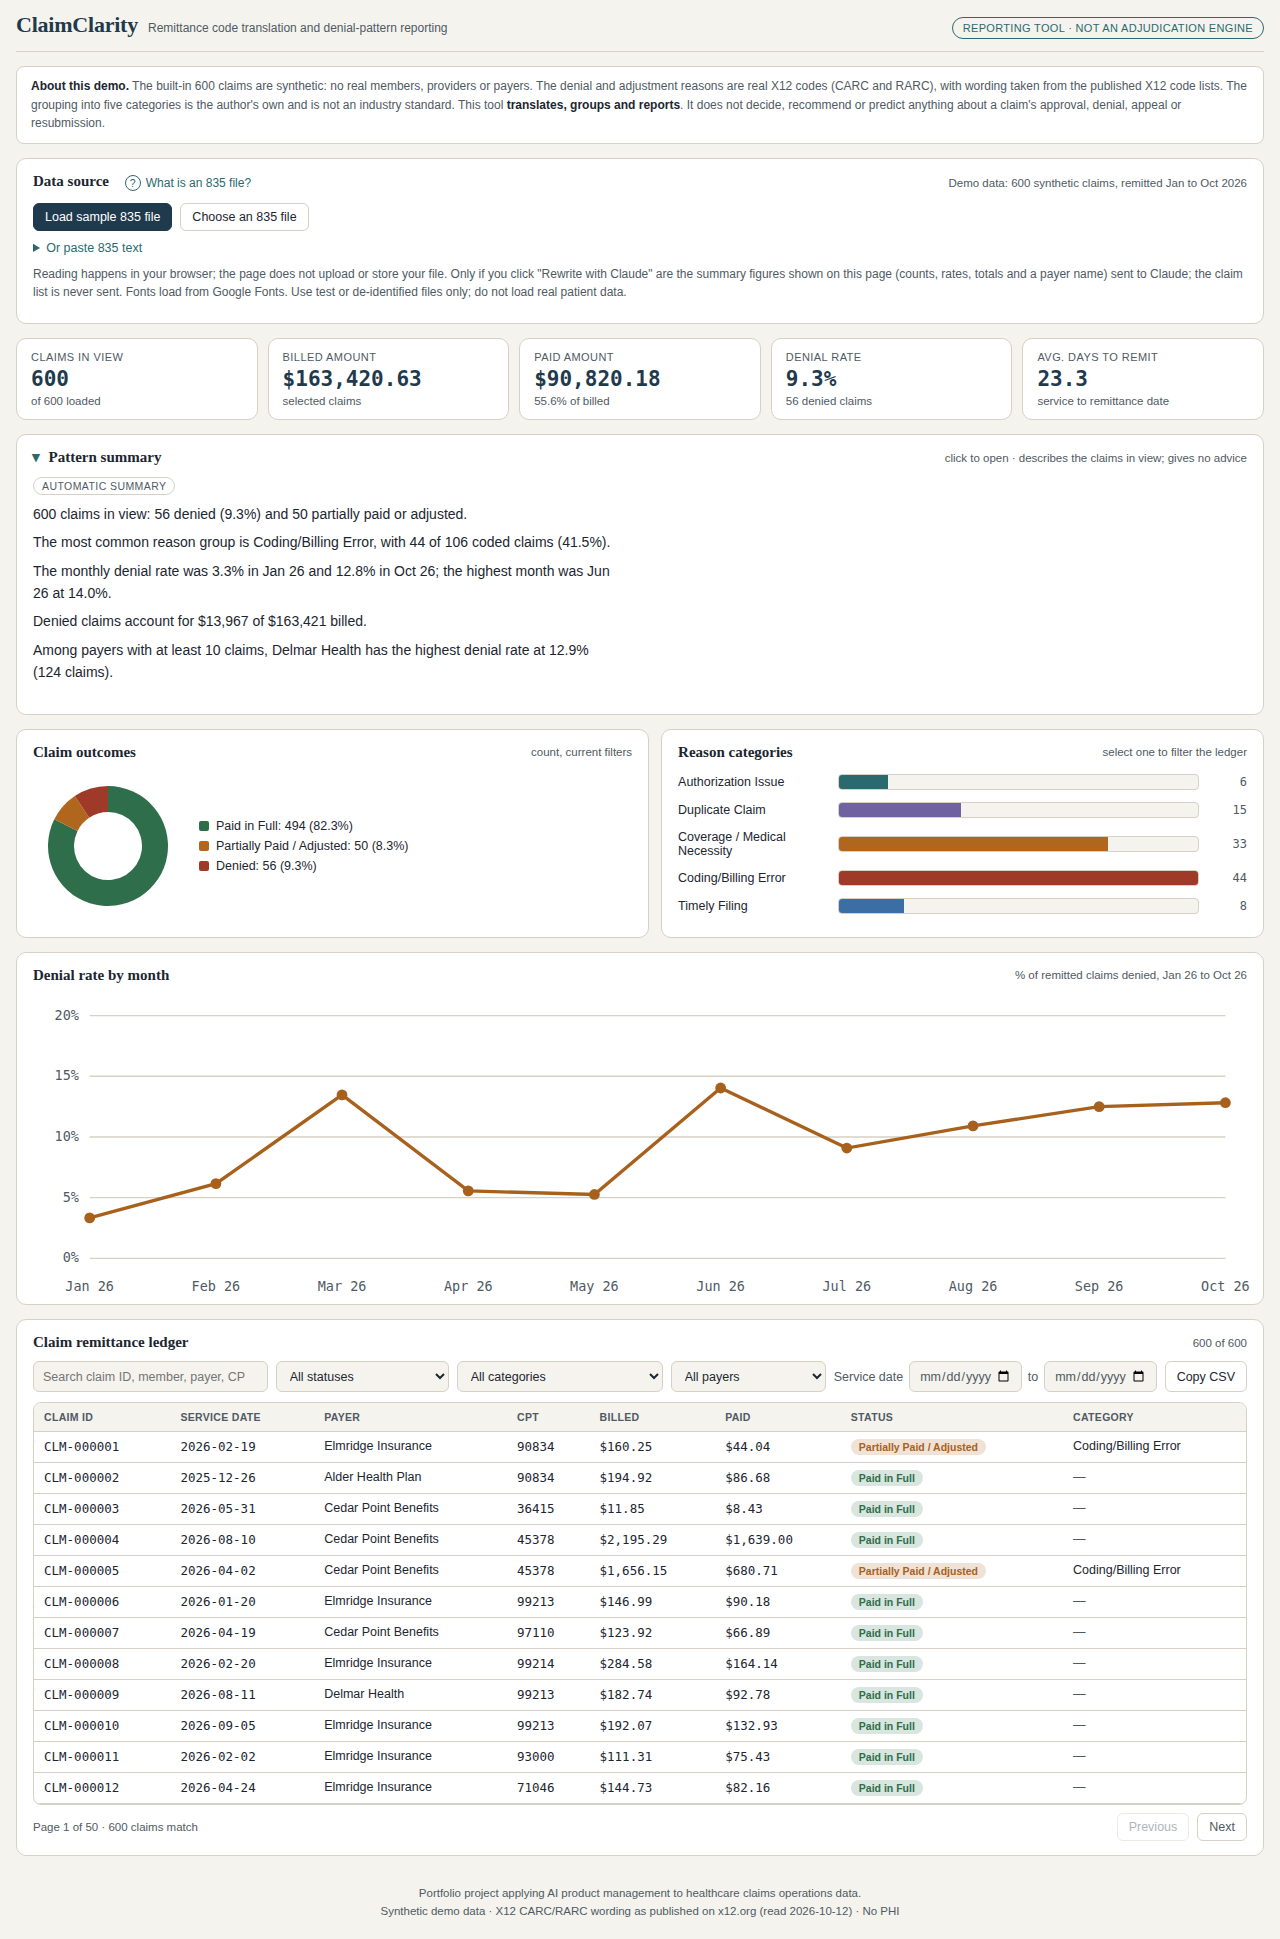
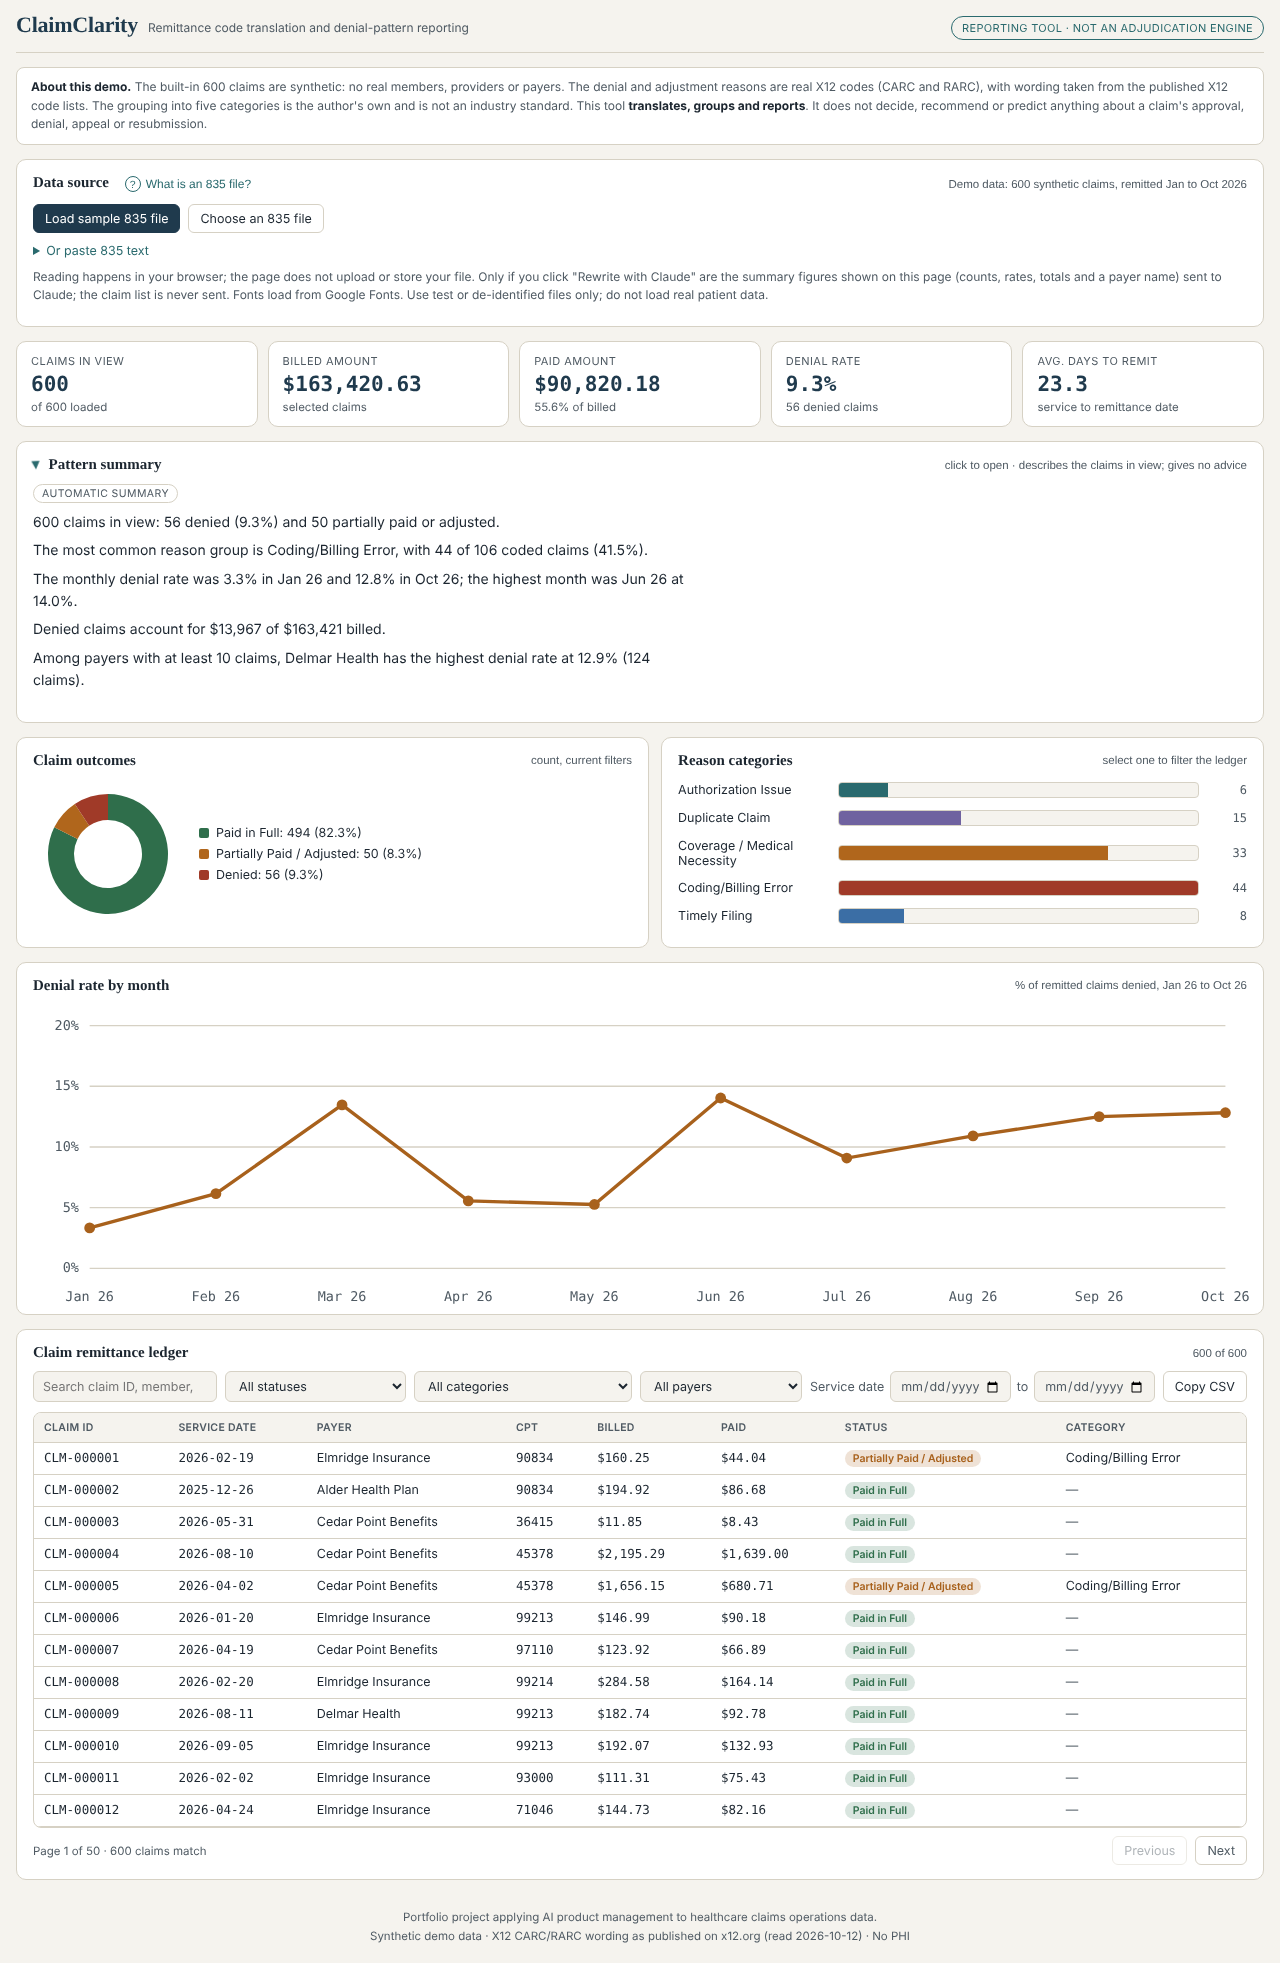
Label retired codes CARC 15 and 125
Marks both as "Retired code" in the claim panel and CSV export, with the
stop date as shown on x12.org. Updates BRD, FRD, README and CHANGELOG.

Claude-Session: https://claude.ai/code/session_01PJ1AVXRLBjWfxzT4sn9pDP

diff --git a/app/index.html b/app/index.html
@@ -143,6 +143,8 @@ tbody tr:hover{background:var(--bg);}
 .code-plain{font-size:13px;line-height:1.5;font-weight:500;}
 .code-official{font-size:12px;line-height:1.5;color:var(--ink-dim);margin-top:4px;}
 .code-official b{font-weight:600;}
+.retired-pill{display:inline-block;margin-left:6px;font-size:10.5px;font-weight:600;letter-spacing:.03em;text-transform:uppercase;color:var(--warn);border:1px solid var(--warn);border-radius:100px;padding:1px 7px;vertical-align:middle;}
+.retired-note{font-size:11.5px;line-height:1.5;color:var(--ink-dim);margin-top:6px;font-style:italic;}
 .cat-chip{display:inline-block;background:color-mix(in srgb,var(--teal) 16%,transparent);color:var(--teal);border-radius:100px;padding:3px 10px;font-size:11.5px;font-weight:600;margin-bottom:10px;}
 .out-of-scope{margin-top:14px;font-size:11.5px;color:var(--ink-dim);border-top:1px dashed var(--line);padding-top:10px;line-height:1.5;}
 footer.app{font-size:11.5px;color:var(--ink-dim);text-align:center;padding:14px 0 6px;line-height:1.6;}
@@ -280,13 +282,13 @@ const CODES = {
   carc: {
     "4":   {o:"The procedure code is inconsistent with the modifier used.", p:"The procedure code does not fit the modifier used."},
     "11":  {o:"The diagnosis is inconsistent with the procedure.", p:"The diagnosis on the claim does not fit the procedure billed."},
-    "15":  {o:"The authorization number is missing, invalid, or does not apply to the billed services or provider.", p:"The authorization number is missing, invalid, or does not match the billed service or provider."},
+    "15":  {retired:"01/05/2018", o:"The authorization number is missing, invalid, or does not apply to the billed services or provider.", p:"The authorization number is missing, invalid, or does not match the billed service or provider."},
     "16":  {o:"Claim/service lacks information or has submission/billing error(s).", p:"The claim is missing information or has a billing error."},
     "18":  {o:"Exact duplicate claim/service (Use only with Group Code OA except where state workers' compensation regulations requires CO)", p:"The payer already has this exact claim or service."},
     "29":  {o:"The time limit for filing has expired.", p:"The claim reached the payer after its filing deadline."},
     "49":  {o:"This is a non-covered service because it is a routine/preventive exam or a diagnostic/screening procedure done in conjunction with a routine/preventive exam.", p:"A routine or preventive exam, or a screening or diagnostic test done with one, is not covered."},
     "50":  {o:"These are non-covered services because this is not deemed a 'medical necessity' by the payer.", p:"The payer did not consider the service medically necessary."},
-    "125": {o:"Submission/billing error(s). At least one Remark Code must be provided", p:"A submission or billing error. The remark code gives the specifics."},
+    "125": {retired:"01/11/2013", o:"Submission/billing error(s). At least one Remark Code must be provided", p:"A submission or billing error. The remark code gives the specifics."},
     "197": {o:"Precertification/authorization/notification/pre-treatment absent.", p:"The required pre-approval was not on file."},
     "198": {o:"Precertification/notification/authorization/pre-treatment exceeded.", p:"The service went beyond what the pre-approval allowed."}
   },
@@ -436,7 +438,8 @@ function csvCell(v, isText){
 function describeCode(kind, code){
   if(!code) return {plain:'', official:''};
   const e = CODES[kind][code];
-  return e ? {plain:e.p, official:e.o} : {plain:NOT_IN_SET, official:''};
+  if(!e) return {plain:NOT_IN_SET, official:''};
+  return {plain: e.retired ? 'Retired code (stopped '+e.retired+' per x12.org). '+e.p : e.p, official:e.o};
 }
 function toCSV(list){
   const head = ['claim_id','member_id','payer','provider_specialty','place_of_service','service_date','remittance_date','cpt_code','service','billed','allowed','paid','patient_responsibility','status','category','carc','carc_plain_english','carc_x12_wording','rarc','rarc_plain_english','rarc_x12_wording'];
@@ -585,7 +588,9 @@ function renderTable(list){
 function codeBlock(kind, code){
   const e = CODES[kind][code], tag = kind.toUpperCase()+' '+code;
   if(!e) return `<div class="code-block"><span class="code-tag">${esc(tag)}</span><div class="code-plain">${NOT_IN_SET}.</div></div>`;
-  return `<div class="code-block"><span class="code-tag">${esc(tag)}</span><div class="code-plain">${esc(e.p)}</div><div class="code-official"><b>X12 wording:</b> ${esc(e.o)}</div></div>`;
+  const ret = e.retired ? `<span class="retired-pill">Retired code</span>` : '';
+  const note = e.retired ? `<div class="retired-note">As shown on x12.org, this code was stopped on ${esc(e.retired)}. Current remittances should not use it, but older or non-standard files may still contain it.</div>` : '';
+  return `<div class="code-block"><span class="code-tag">${esc(tag)}</span>${ret}<div class="code-plain">${esc(e.p)}</div><div class="code-official"><b>X12 wording:</b> ${esc(e.o)}</div>${note}</div>`;
 }
 function openDrawer(id, from){
   const c = DATA.find(x=>x.claim_id===id); if(!c) return;

diff --git a/src/template.html b/src/template.html
@@ -143,6 +143,8 @@ tbody tr:hover{background:var(--bg);}
 .code-plain{font-size:13px;line-height:1.5;font-weight:500;}
 .code-official{font-size:12px;line-height:1.5;color:var(--ink-dim);margin-top:4px;}
 .code-official b{font-weight:600;}
+.retired-pill{display:inline-block;margin-left:6px;font-size:10.5px;font-weight:600;letter-spacing:.03em;text-transform:uppercase;color:var(--warn);border:1px solid var(--warn);border-radius:100px;padding:1px 7px;vertical-align:middle;}
+.retired-note{font-size:11.5px;line-height:1.5;color:var(--ink-dim);margin-top:6px;font-style:italic;}
 .cat-chip{display:inline-block;background:color-mix(in srgb,var(--teal) 16%,transparent);color:var(--teal);border-radius:100px;padding:3px 10px;font-size:11.5px;font-weight:600;margin-bottom:10px;}
 .out-of-scope{margin-top:14px;font-size:11.5px;color:var(--ink-dim);border-top:1px dashed var(--line);padding-top:10px;line-height:1.5;}
 footer.app{font-size:11.5px;color:var(--ink-dim);text-align:center;padding:14px 0 6px;line-height:1.6;}
@@ -280,13 +282,13 @@ const CODES = {
   carc: {
     "4":   {o:"The procedure code is inconsistent with the modifier used.", p:"The procedure code does not fit the modifier used."},
     "11":  {o:"The diagnosis is inconsistent with the procedure.", p:"The diagnosis on the claim does not fit the procedure billed."},
-    "15":  {o:"The authorization number is missing, invalid, or does not apply to the billed services or provider.", p:"The authorization number is missing, invalid, or does not match the billed service or provider."},
+    "15":  {retired:"01/05/2018", o:"The authorization number is missing, invalid, or does not apply to the billed services or provider.", p:"The authorization number is missing, invalid, or does not match the billed service or provider."},
     "16":  {o:"Claim/service lacks information or has submission/billing error(s).", p:"The claim is missing information or has a billing error."},
     "18":  {o:"Exact duplicate claim/service (Use only with Group Code OA except where state workers' compensation regulations requires CO)", p:"The payer already has this exact claim or service."},
     "29":  {o:"The time limit for filing has expired.", p:"The claim reached the payer after its filing deadline."},
     "49":  {o:"This is a non-covered service because it is a routine/preventive exam or a diagnostic/screening procedure done in conjunction with a routine/preventive exam.", p:"A routine or preventive exam, or a screening or diagnostic test done with one, is not covered."},
     "50":  {o:"These are non-covered services because this is not deemed a 'medical necessity' by the payer.", p:"The payer did not consider the service medically necessary."},
-    "125": {o:"Submission/billing error(s). At least one Remark Code must be provided", p:"A submission or billing error. The remark code gives the specifics."},
+    "125": {retired:"01/11/2013", o:"Submission/billing error(s). At least one Remark Code must be provided", p:"A submission or billing error. The remark code gives the specifics."},
     "197": {o:"Precertification/authorization/notification/pre-treatment absent.", p:"The required pre-approval was not on file."},
     "198": {o:"Precertification/notification/authorization/pre-treatment exceeded.", p:"The service went beyond what the pre-approval allowed."}
   },
@@ -436,7 +438,8 @@ function csvCell(v, isText){
 function describeCode(kind, code){
   if(!code) return {plain:'', official:''};
   const e = CODES[kind][code];
-  return e ? {plain:e.p, official:e.o} : {plain:NOT_IN_SET, official:''};
+  if(!e) return {plain:NOT_IN_SET, official:''};
+  return {plain: e.retired ? 'Retired code (stopped '+e.retired+' per x12.org). '+e.p : e.p, official:e.o};
 }
 function toCSV(list){
   const head = ['claim_id','member_id','payer','provider_specialty','place_of_service','service_date','remittance_date','cpt_code','service','billed','allowed','paid','patient_responsibility','status','category','carc','carc_plain_english','carc_x12_wording','rarc','rarc_plain_english','rarc_x12_wording'];
@@ -585,7 +588,9 @@ function renderTable(list){
 function codeBlock(kind, code){
   const e = CODES[kind][code], tag = kind.toUpperCase()+' '+code;
   if(!e) return `<div class="code-block"><span class="code-tag">${esc(tag)}</span><div class="code-plain">${NOT_IN_SET}.</div></div>`;
-  return `<div class="code-block"><span class="code-tag">${esc(tag)}</span><div class="code-plain">${esc(e.p)}</div><div class="code-official"><b>X12 wording:</b> ${esc(e.o)}</div></div>`;
+  const ret = e.retired ? `<span class="retired-pill">Retired code</span>` : '';
+  const note = e.retired ? `<div class="retired-note">As shown on x12.org, this code was stopped on ${esc(e.retired)}. Current remittances should not use it, but older or non-standard files may still contain it.</div>` : '';
+  return `<div class="code-block"><span class="code-tag">${esc(tag)}</span>${ret}<div class="code-plain">${esc(e.p)}</div><div class="code-official"><b>X12 wording:</b> ${esc(e.o)}</div>${note}</div>`;
 }
 function openDrawer(id, from){
   const c = DATA.find(x=>x.claim_id===id); if(!c) return;

diff --git a/src/pure.js b/src/pure.js
@@ -3,13 +3,13 @@ const CODES = {
   carc: {
     "4":   {o:"The procedure code is inconsistent with the modifier used.", p:"The procedure code does not fit the modifier used."},
     "11":  {o:"The diagnosis is inconsistent with the procedure.", p:"The diagnosis on the claim does not fit the procedure billed."},
-    "15":  {o:"The authorization number is missing, invalid, or does not apply to the billed services or provider.", p:"The authorization number is missing, invalid, or does not match the billed service or provider."},
+    "15":  {retired:"01/05/2018", o:"The authorization number is missing, invalid, or does not apply to the billed services or provider.", p:"The authorization number is missing, invalid, or does not match the billed service or provider."},
     "16":  {o:"Claim/service lacks information or has submission/billing error(s).", p:"The claim is missing information or has a billing error."},
     "18":  {o:"Exact duplicate claim/service (Use only with Group Code OA except where state workers' compensation regulations requires CO)", p:"The payer already has this exact claim or service."},
     "29":  {o:"The time limit for filing has expired.", p:"The claim reached the payer after its filing deadline."},
     "49":  {o:"This is a non-covered service because it is a routine/preventive exam or a diagnostic/screening procedure done in conjunction with a routine/preventive exam.", p:"A routine or preventive exam, or a screening or diagnostic test done with one, is not covered."},
     "50":  {o:"These are non-covered services because this is not deemed a 'medical necessity' by the payer.", p:"The payer did not consider the service medically necessary."},
-    "125": {o:"Submission/billing error(s). At least one Remark Code must be provided", p:"A submission or billing error. The remark code gives the specifics."},
+    "125": {retired:"01/11/2013", o:"Submission/billing error(s). At least one Remark Code must be provided", p:"A submission or billing error. The remark code gives the specifics."},
     "197": {o:"Precertification/authorization/notification/pre-treatment absent.", p:"The required pre-approval was not on file."},
     "198": {o:"Precertification/notification/authorization/pre-treatment exceeded.", p:"The service went beyond what the pre-approval allowed."}
   },
@@ -159,7 +159,8 @@ function csvCell(v, isText){
 function describeCode(kind, code){
   if(!code) return {plain:'', official:''};
   const e = CODES[kind][code];
-  return e ? {plain:e.p, official:e.o} : {plain:NOT_IN_SET, official:''};
+  if(!e) return {plain:NOT_IN_SET, official:''};
+  return {plain: e.retired ? 'Retired code (stopped '+e.retired+' per x12.org). '+e.p : e.p, official:e.o};
 }
 function toCSV(list){
   const head = ['claim_id','member_id','payer','provider_specialty','place_of_service','service_date','remittance_date','cpt_code','service','billed','allowed','paid','patient_responsibility','status','category','carc','carc_plain_english','carc_x12_wording','rarc','rarc_plain_english','rarc_x12_wording'];

diff --git a/docs/BRD.md b/docs/BRD.md
@@ -91,7 +91,7 @@ Success is judged on whether a reader can understand a claim and the overall pat
 **Limits**
 
 - The five categories and the rule that ignores routine adjustments (CO-45, PR-1, PR-2, PR-3) are the author's own choices, not an industry standard.
-- Only 14 codes are translated. Anything else shows as "Other / Unmapped". Nine codes were removed because their official wording could not be fully confirmed.
+- Only 14 codes are translated. Anything else shows as "Other / Unmapped". Two of the 14 (CARC 15 and 125) are retired on x12.org; they are kept for older files and labelled "Retired code" with their stop date. Nine codes were removed because their official wording could not be fully confirmed.
 - When a claim has several service lines, only the first procedure code is shown.
 - For 835 files the "allowed" amount is only an estimate (paid plus patient share), and only the first reason code of each claim is used for grouping. Not yet done: a screen reader test, a colour contrast audit, and testing with several real de-identified 835 files.
 - The business case is reasoned for a hypothetical claims team and has not been validated with real users.
@@ -111,7 +111,7 @@ Built does not mean proven. This table separates what a test or an independent c
 
 | ID | Evidence | Verdict |
 | --- | --- | --- |
-| BR-01 | Tests check the plain-English and official wording show for coded claims, and unknown codes are handled. Wording was quoted from the X12 lists on 2026-10-12 | Confirmed for 14 codes |
+| BR-01 | Tests check the plain-English and official wording show for coded claims, and unknown codes are handled. Wording was quoted from the X12 lists on 2026-10-12 | Confirmed for 14 codes; 2 labelled retired |
 | BR-02 | Tests confirm every code in the demo maps to one category and unknown codes go to Other / Unmapped. Only the first reason code is used, so a claim with several reasons shows one. Whether that is a fair summary has had no domain review | Complete, validity not reviewed |
 | BR-03 | The summary text agrees with an independent count (494 paid, 50 partly paid, 56 denied). The chart itself is not separately tested | Confirmed for the figures |
 | BR-04 | Billed $163,420.63, paid $90,820.18, denial rate 9.3% and 23.3 average days match a separate recalculation from the raw data | Confirmed |

diff --git a/README.md b/README.md
@@ -64,7 +64,7 @@ I led the product work: the problem, users, scope, requirements, the status and 
 ## Known limits
 
 - The five categories and the rule that ignores routine adjustments (CO-45, PR-1, PR-2, PR-3) are my own choices, not an industry standard. They have had no domain review yet.
-- Only 14 codes are translated. Other codes show as "Other / Unmapped".
+- Only 14 codes are translated. Other codes show as "Other / Unmapped". CARC 15 and 125 are retired on x12.org; they are kept for older files and labelled "Retired code".
 - Only the first reason code on a claim is used for grouping, and only the first procedure code is shown when a claim has several service lines.
 - For 835 files, the "allowed" amount is an estimate (paid plus patient share), and the page says so.
 - Not yet done: testing with real de-identified 835 files, a screen reader test, a colour contrast audit, and testing with real claims analysts.

diff --git a/docs/FRD.md b/docs/FRD.md
@@ -43,7 +43,7 @@ The raw status code is kept on each record.
 
 ## 3. Code translation (BR-01)
 
-14 codes carry the official X12 wording and a plain-English line: CARC 4, 11, 15, 16, 18, 29, 49, 50, 125, 197, 198 and RARC M51, M86, MA63. Any other code is shown as "Other / Unmapped" with a note that it is outside the reference set.
+14 codes carry the official X12 wording and a plain-English line: CARC 4, 11, 15, 16, 18, 29, 49, 50, 125, 197, 198 and RARC M51, M86, MA63. Any other code is shown as "Other / Unmapped" with a note that it is outside the reference set. CARC 15 (stopped 01/05/2018) and CARC 125 (stopped 01/11/2013) are retired on x12.org. They are kept so older files still translate, and are marked "Retired code" in the claim panel and the CSV export, with a note giving the stop date as shown on x12.org.
 
 ## 4. Categories (BR-02)
 

diff --git a/docs/CHANGELOG.md b/docs/CHANGELOG.md
@@ -1,5 +1,9 @@
 # Change log and review findings
 
+## 21 October 2026: retired codes labelled
+
+All codes used in the project were re-checked against the current X12 CARC and RARC lists. The wording of all 14 translated codes matches. Two are retired on x12.org: CARC 15 (stopped 01/05/2018) and CARC 125 (stopped 01/11/2013, used by 6 demo claims). Both are kept so older files still translate, and are now marked "Retired code" in the claim panel, with a note giving the stop date as shown on x12.org. The CSV export's plain-English column carries the same label.
+
 ## 20 October 2026: changes from showing the tool to others
 
 | Feedback | What changed |
